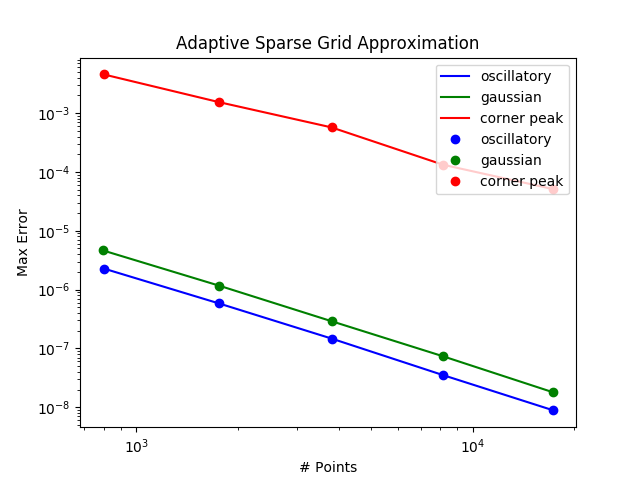
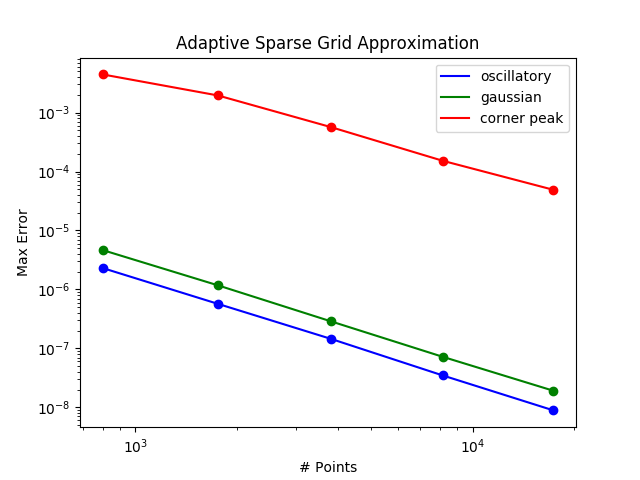
analytical hw concluded

diff --git a/day1_SparseGrid/SparseGridCode/analytical_examples/TASMANIAN_Python/homework.py b/day1_SparseGrid/SparseGridCode/analytical_examples/TASMANIAN_Python/homework.py
@@ -171,9 +171,9 @@ plt.yscale('log')
 plt.plot(numPointsS, errorStoreS, color = 'b', label = "oscillatory")
 plt.plot(numPointsS1, errorStoreS1, color = 'g', label = "gaussian")
 plt.plot(numPointsS2, errorStoreS2, color = 'r', label = "corner peak")
-plt.plot(numPointsS, errorStoreS, 'bo', label = "oscillatory")
-plt.plot(numPointsS1, errorStoreS1, 'go', label = "gaussian")
-plt.plot(numPointsS2, errorStoreS2, 'ro', label = "corner peak")
+plt.plot(numPointsS, errorStoreS, 'bo')
+plt.plot(numPointsS1, errorStoreS1, 'go')
+plt.plot(numPointsS2, errorStoreS2, 'ro')
 plt.title('Sparse Grid Approximation')
 plt.xlabel('# Points')
 plt.ylabel('Max Error')
@@ -196,9 +196,9 @@ plt.xscale('log')
 plt.plot(numPointsAS, errorStoreAS, color = 'b', label = "oscillatory")
 plt.plot(numPointsAS1, errorStoreAS1, color = 'g', label = "gaussian")
 plt.plot(numPointsAS2, errorStoreAS2, color = 'r', label = "corner peak")
-plt.plot(numPointsAS, errorStoreAS, 'bo', label = "oscillatory")
-plt.plot(numPointsAS1, errorStoreAS1, 'go', label = "gaussian")
-plt.plot(numPointsAS2, errorStoreAS2, 'ro', label = "corner peak")
+plt.plot(numPointsAS, errorStoreAS, 'bo')
+plt.plot(numPointsAS1, errorStoreAS1, 'go')
+plt.plot(numPointsAS2, errorStoreAS2, 'ro')
 plt.title('Adaptive Sparse Grid Approximation')
 plt.xlabel('# Points')
 plt.ylabel('Max Error')
